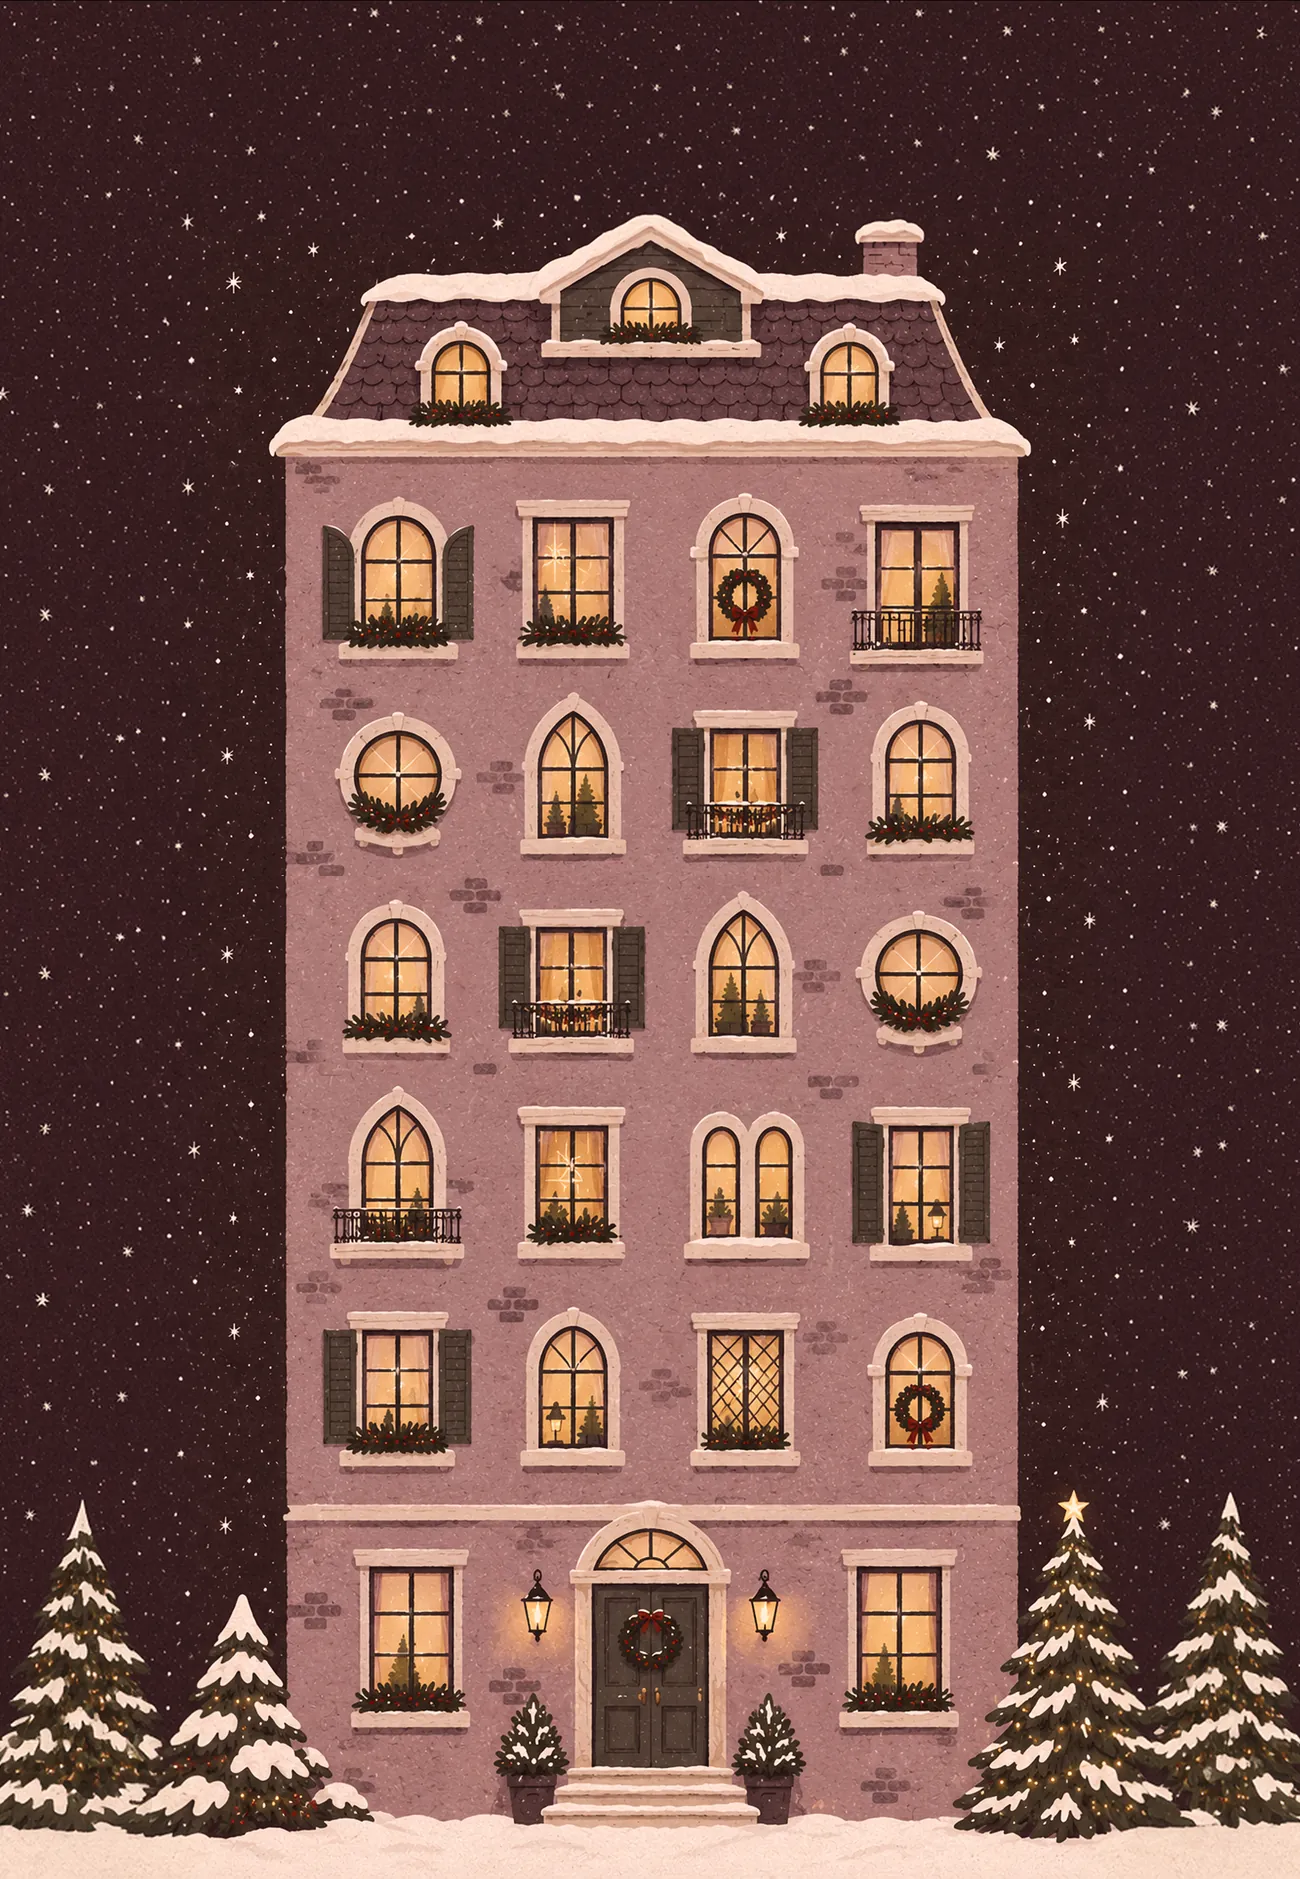
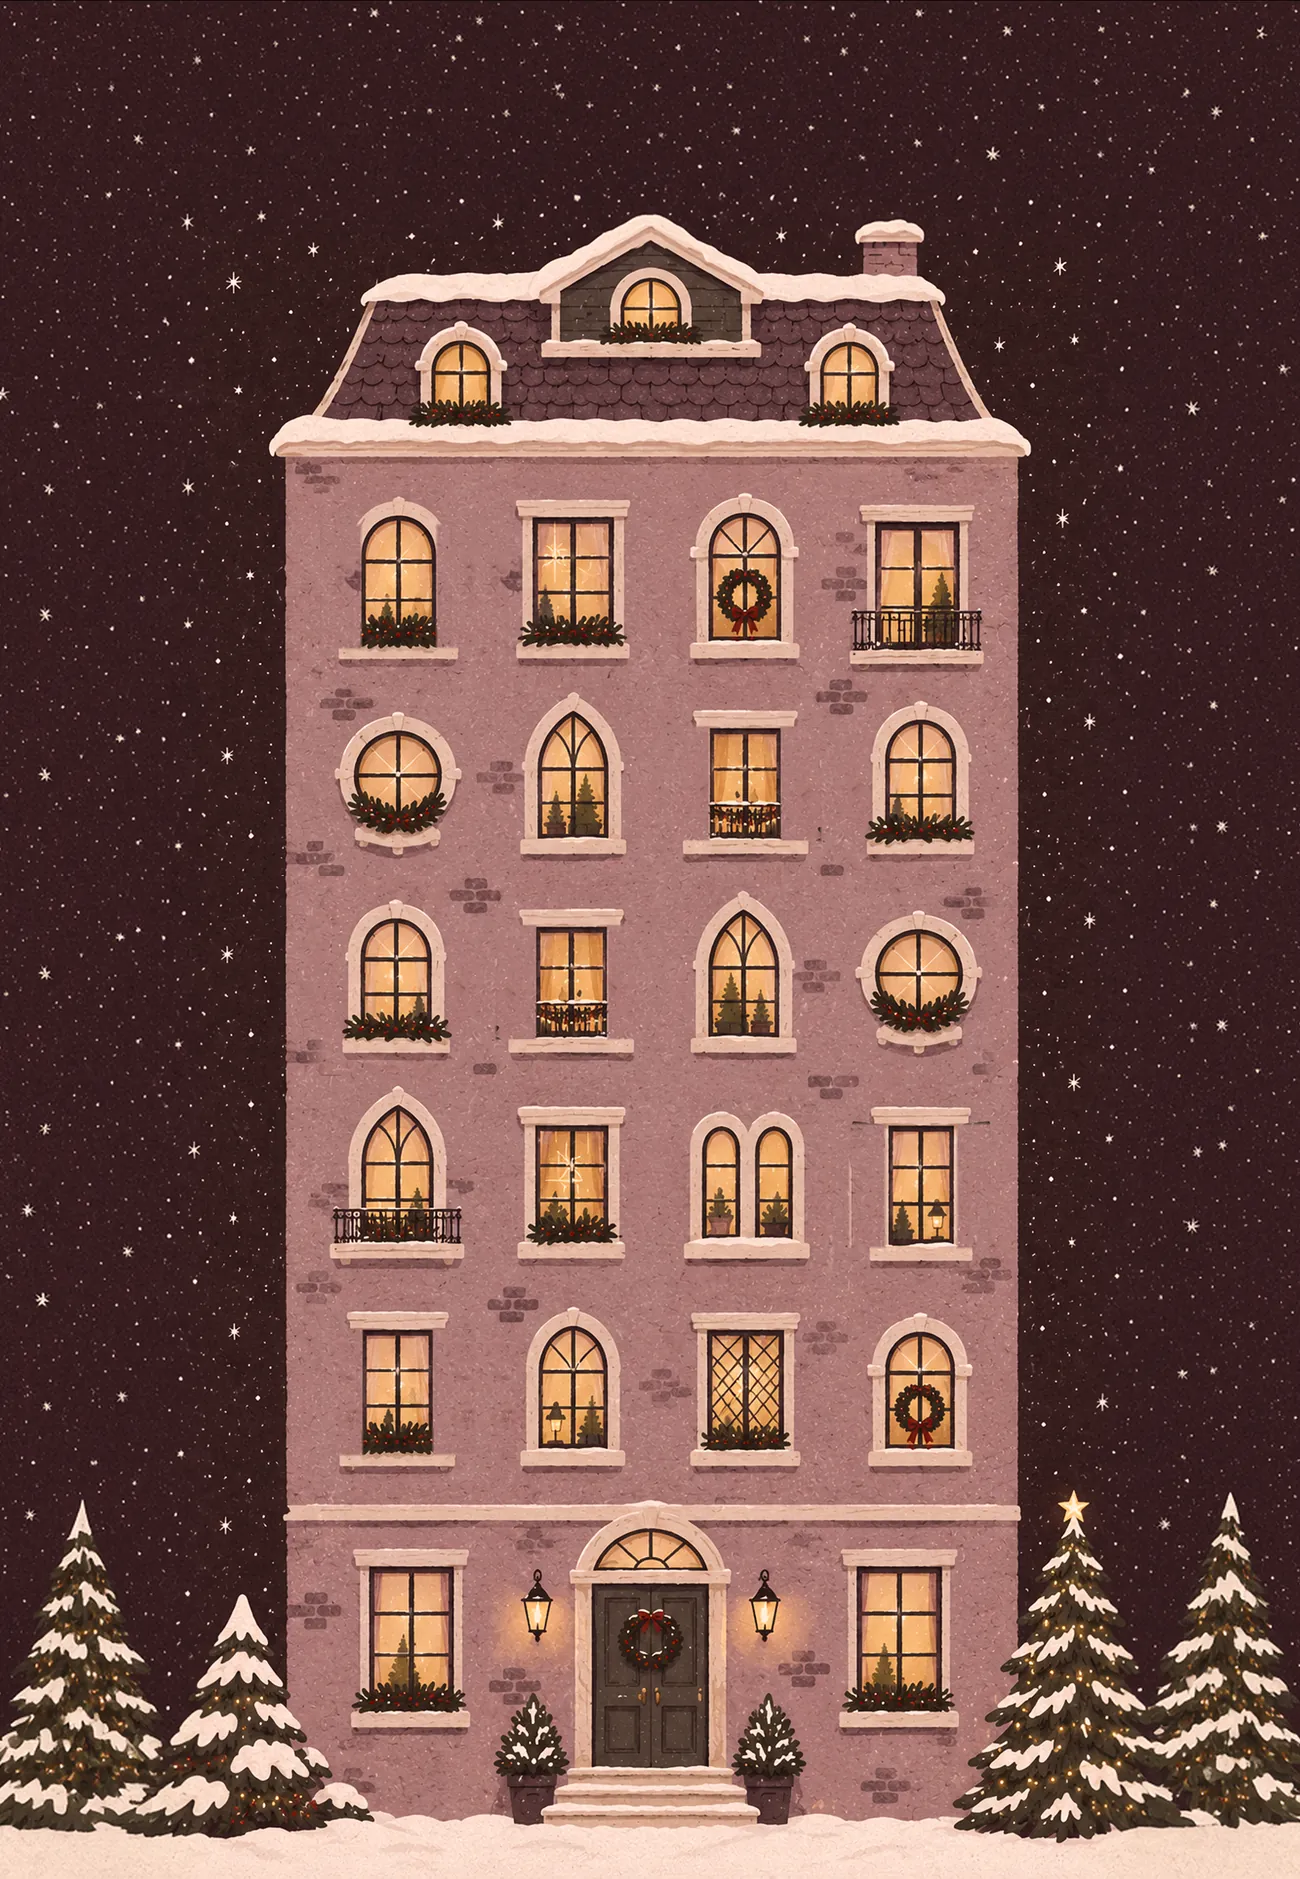
Advent: shutters open outward; remove painted shutters from the artwork
- Painted shutters removed on cells 3, 9, 18, 19 (and 12, the mirrored copy
  of 9) by patching in wall texture during the build
- Each shutter leaf carries its own half of the glass mask, so it keeps its
  shape while swinging outward and lies flat on the wall when open

diff --git a/advent/css/advent.css b/advent/css/advent.css
@@ -135,7 +135,7 @@ html.is-modal-open body { overflow: hidden; }
 /* Небо сторінки — того ж сливового кольору, що й на малюнку */
 body.advent-page {
   /* небо з ілюстрації (безшовна текстура), у тому ж масштабі, що й будинок */
-  background: #361d1e url("../img/sky.webp?v=2026112803") repeat 50% 0 / min(61.1vw, 428px);
+  background: #361d1e url("../img/sky.webp?v=2026112804") repeat 50% 0 / min(61.1vw, 428px);
 }
 .advent-page .aurora { display: none; }
 
@@ -199,7 +199,7 @@ body.advent-page {
 /* Світло у вікні — шматок «світлої» версії малюнка точно по склу */
 .win-light {
   position: absolute;
-  background-image: url("../img/house-lit.webp?v=2026112803");
+  background-image: url("../img/house-lit.webp?v=2026112804");
   background-repeat: no-repeat;
   opacity: 0;
   transition: opacity 0.9s ease, filter 0.6s;
@@ -215,14 +215,10 @@ body.advent-page {
   50%      { filter: brightness(1.22); box-shadow: 0 0 30px 8px rgba(255, 214, 140, 0.8); }
 }
 
-/* Віконниці: зачинені → прочинені (комірка доступна) → розчинені (переглянута) */
+/* Віконниці: зачинені → прочинені назовні (комірка доступна) → розчинені й лежать на стіні (переглянута) */
 .win-shutters {
   position: absolute;
-  perspective: 90px;
-  -webkit-mask-image: url("../img/glass-mask.webp?v=2026112803");
-  mask-image: url("../img/glass-mask.webp?v=2026112803");
-  -webkit-mask-repeat: no-repeat;
-  mask-repeat: no-repeat;
+  perspective: 110px;
   pointer-events: none;
 }
 .leaf {
@@ -235,8 +231,11 @@ body.advent-page {
     repeating-linear-gradient(180deg, rgba(14, 24, 18, 0.55) 0 1.5px, rgba(255, 255, 255, 0.08) 1.5px 2.5px, transparent 2.5px 5px),
     linear-gradient(180deg, #4b6552, #34483a);
   box-shadow: inset 0 0 0 1.5px #1f2c23;
-  transition: transform 1s cubic-bezier(0.2, 0.75, 0.25, 1), filter 1s;
-  backface-visibility: hidden;
+  -webkit-mask-image: url("../img/glass-mask.webp?v=2026112804");
+  mask-image: url("../img/glass-mask.webp?v=2026112804");
+  -webkit-mask-repeat: no-repeat;
+  mask-repeat: no-repeat;
+  transition: transform 1.1s cubic-bezier(0.2, 0.75, 0.25, 1), filter 1.1s;
 }
 .leaf--l { left: 0; transform-origin: 0 50%; }
 .leaf--r { right: 0; transform-origin: 100% 50%; }
@@ -254,20 +253,20 @@ body.advent-page {
 .leaf--l::after { right: 3px; }
 .leaf--r::after { left: 3px; }
 
-.win.is-ready .leaf--l { transform: rotateY(52deg); }
-.win.is-ready .leaf--r { transform: rotateY(-52deg); }
+.win.is-ready .leaf--l { transform: rotateY(-48deg); }
+.win.is-ready .leaf--r { transform: rotateY(48deg); }
 .win.is-new .leaf--l { animation: ajar-l 2.6s ease-in-out infinite; }
 .win.is-new .leaf--r { animation: ajar-r 2.6s ease-in-out infinite; }
-@keyframes ajar-l { 0%, 100% { transform: rotateY(44deg); } 50% { transform: rotateY(60deg); } }
-@keyframes ajar-r { 0%, 100% { transform: rotateY(-44deg); } 50% { transform: rotateY(-60deg); } }
+@keyframes ajar-l { 0%, 100% { transform: rotateY(-40deg); } 50% { transform: rotateY(-58deg); } }
+@keyframes ajar-r { 0%, 100% { transform: rotateY(40deg); } 50% { transform: rotateY(58deg); } }
 
-.win.is-opened .leaf { filter: brightness(0.8); }
-.win.is-opened .leaf--l { transform: rotateY(84deg); }
-.win.is-opened .leaf--r { transform: rotateY(-84deg); }
+.win.is-opened .leaf { filter: brightness(0.72); }
+.win.is-opened .leaf--l { transform: rotateY(-172deg); }
+.win.is-opened .leaf--r { transform: rotateY(172deg); }
 
 @media (hover: hover) {
-  .win.is-ready:hover .leaf--l { animation: none; transform: rotateY(64deg); }
-  .win.is-ready:hover .leaf--r { animation: none; transform: rotateY(-64deg); }
+  .win.is-ready:hover .leaf--l { animation: none; transform: rotateY(-66deg); }
+  .win.is-ready:hover .leaf--r { animation: none; transform: rotateY(66deg); }
 }
 
 /* Номер над вікном */
@@ -653,8 +652,8 @@ body.advent-page {
 
 @media (prefers-reduced-motion: reduce) {
   .win.is-new .win-light { filter: brightness(1.15); box-shadow: 0 0 26px 6px rgba(255, 214, 140, 0.75); }
-  .win.is-new .leaf--l { animation: none; transform: rotateY(54deg); }
-  .win.is-new .leaf--r { animation: none; transform: rotateY(-54deg); }
+  .win.is-new .leaf--l { animation: none; transform: rotateY(-50deg); }
+  .win.is-new .leaf--r { animation: none; transform: rotateY(50deg); }
   .door-tag { animation: none; }
   .spoiler:not(.is-revealed) { animation: none; }
 }

diff --git a/advent/index.html b/advent/index.html
@@ -22,9 +22,9 @@
   <link href="https://fonts.googleapis.com/css2?family=Manrope:wght@400;500;600;700;800&family=Roboto+Slab:wght@600;700;800&display=swap" rel="stylesheet">
 
   <!-- ?v=… — версія файлів: змінюй при кожному оновленні CSS/JS -->
-  <link rel="stylesheet" href="../css/style.css?v=2026112803">
-  <link rel="stylesheet" href="css/advent.css?v=2026112803">
-  <link rel="preload" href="img/house-lit.webp?v=2026112803" as="image" type="image/webp">
+  <link rel="stylesheet" href="../css/style.css?v=2026112804">
+  <link rel="stylesheet" href="css/advent.css?v=2026112804">
+  <link rel="preload" href="img/house-lit.webp?v=2026112804" as="image" type="image/webp">
 </head>
 <body class="advent-page">
   <div class="aurora" aria-hidden="true"></div>
@@ -47,7 +47,7 @@
     <!-- Будинок: кожне вікно — комірка. Ілюстрацію збирає tools/build_house.py -->
     <section class="house" aria-label="Комірки адвент-календаря">
       <div class="house-art">
-        <img class="house-img" src="img/house-dark.webp?v=2026112803" width="1300" height="1879" alt="" decoding="async" fetchpriority="high">
+        <img class="house-img" src="img/house-dark.webp?v=2026112804" width="1300" height="1879" alt="" decoding="async" fetchpriority="high">
         <ol class="windows" id="windows"></ol>
         <a class="door" href="../" style="left:45.62%;top:81.22%;width:8.85%;height:11.79%">
           <span class="door-tag">Передбачення 2027 ✨</span>
@@ -88,8 +88,8 @@
 
   <div class="toast" id="toast" role="status" aria-live="polite"></div>
 
-  <script src="../js/effects.js?v=2026112803" defer></script>
-  <script src="js/richtext.js?v=2026112803" defer></script>
-  <script src="js/advent.js?v=2026112803" defer></script>
+  <script src="../js/effects.js?v=2026112804" defer></script>
+  <script src="js/richtext.js?v=2026112804" defer></script>
+  <script src="js/advent.js?v=2026112804" defer></script>
 </body>
 </html>

diff --git a/advent/js/advent.js b/advent/js/advent.js
@@ -207,18 +207,27 @@
       light.style.backgroundPosition = (gx / (100 - gw) * 100) + '% ' + (gy / (100 - gh) * 100) + '%';
       b.appendChild(light);
 
-      // Віконниці: обрізані маскою точно по формі скла (арка, коло…)
+      // Віконниці: кожна стулка обрізана маскою по своїй половині скла (арка, коло…)
+      // і повертається разом зі своєю формою — тому відчинена лягає на стіну поруч
       var shut = document.createElement('span');
       shut.className = 'win-shutters';
       shut.style.left = light.style.left;
       shut.style.top = light.style.top;
       shut.style.width = light.style.width;
       shut.style.height = light.style.height;
-      shut.style.setProperty('-webkit-mask-size', light.style.backgroundSize);
-      shut.style.setProperty('mask-size', light.style.backgroundSize);
-      shut.style.setProperty('-webkit-mask-position', light.style.backgroundPosition);
-      shut.style.setProperty('mask-position', light.style.backgroundPosition);
-      shut.innerHTML = '<span class="leaf leaf--l"></span><span class="leaf leaf--r"></span>';
+      var lw = gw / 2;
+      var maskSize = (100 / lw * 100) + '% ' + (100 / gh * 100) + '%';
+      var maskY = (gy / (100 - gh) * 100) + '%';
+      [['l', gx], ['r', gx + lw]].forEach(function (side) {
+        var leaf = document.createElement('span');
+        leaf.className = 'leaf leaf--' + side[0];
+        var pos = (side[1] / (100 - lw) * 100) + '% ' + maskY;
+        leaf.style.setProperty('-webkit-mask-size', maskSize);
+        leaf.style.setProperty('mask-size', maskSize);
+        leaf.style.setProperty('-webkit-mask-position', pos);
+        leaf.style.setProperty('mask-position', pos);
+        shut.appendChild(leaf);
+      });
       b.appendChild(shut);
 
       var num = document.createElement('span');

diff --git a/tools/build_house.py b/tools/build_house.py
@@ -29,6 +29,66 @@ BAND = (1125, 1455)       # поверх, який дублюємо (y від–
 MIRROR_AXIS = 1097        # вісь симетрії фасаду в оригіналі, px
 CROP_X = (4, 2163)        # уся ширина (ялинки цілі), без крайніх пікселів із прозорістю
 EDGE_KEEP = (515, 1660)   # смужки біля стін фасаду беремо з оригіналу (x до/після)
+# Скло вікон (в оригіналі, x0 y0 x1 y1), з боків яких прибираємо намальовані віконниці —
+# там тепер відчиняються анімовані. 2-й поверх дублюється дзеркально, тож прибирається й у копії.
+REMOVE_SHUTTERS = [
+    (612, 866, 721, 1034),    # 1-й поверх, ліве вікно
+    (1190, 1220, 1293, 1382), # 2-й поверх, 3-тє вікно (і його дзеркальна копія)
+    (1487, 1550, 1581, 1728), # 3-й поверх, праве вікно
+    (614, 1890, 715, 2057),   # 4-й поверх, ліве вікно
+]
+
+
+def wall_like(px):
+    r, g, b = px[..., 0].astype(int), px[..., 1].astype(int), px[..., 2].astype(int)
+    return (r > 120) & (r < 215) & (r - g > 18) & (r - g < 75) & (b > g - 25)
+
+
+def remove_shutters(a):
+    """Замальовує намальовані віконниці фактурою стіни з найчистішої сусідньої ділянки."""
+    H, W = a.shape[:2]
+    for gx0, gy0, gx1, gy1 in REMOVE_SHUTTERS:
+        for zx0, zx1 in ((gx0 - 95, gx0 - 6), (gx1 + 6, gx1 + 95)):
+            zy0, zy1 = gy0 - 15, gy1 + 45
+            zone = a[zy0:zy1, zx0:zx1, :3].astype(int)
+            lum = zone.mean(axis=2)
+            dark = lum < 105
+            if dark.sum() < 500:
+                continue
+            # рамка самої віконниці (найбільша темна пляма в зоні)
+            lab, n = ndimage.label(ndimage.binary_closing(dark, iterations=3))
+            big = np.argmax(ndimage.sum(dark, lab, range(1, n + 1))) + 1
+            sy, sx = ndimage.find_objects(lab)[big - 1]
+            y0, y1 = zy0 + sy.start - 4, zy0 + sy.stop + 4
+            x0, x1 = zx0 + sx.start - 4, zx0 + sx.stop + 4
+            region = a[y0:y1, x0:x1, :3].astype(int)
+            r, g, b = region[..., 0], region[..., 1], region[..., 2]
+            # гірлянда (зелене гілля, червоні ягоди) лишається поверх стіни
+            garland = (g - r > 6) | ((r > 120) & (g < 70) & (b < 80))
+            garland = ndimage.binary_dilation(ndimage.binary_opening(garland, iterations=2), iterations=2)
+            mask = ~garland
+            # шукаємо поруч ділянку тих самих розмірів, де лише стіна
+            h, w = y1 - y0, x1 - x0
+            best = None
+            for dy in range(-140, 141, 10):
+                for dx in range(-300, 301, 6):
+                    sy0, sx0 = y0 + dy, x0 + dx
+                    if sy0 < 0 or sx0 < 0 or sy0 + h > H or sx0 + w > W or (abs(dx) < w + 10 and abs(dy) < h):
+                        continue
+                    score = wall_like(a[sy0:sy0 + h, sx0:sx0 + w, :3]).mean() - abs(dx) / 6000 - abs(dy) / 3000
+                    if best is None or score > best[0]:
+                        best = (score, sy0, sx0)
+            _, sy0, sx0 = best
+            src = a[sy0:sy0 + h, sx0:sx0 + w, :3].astype(np.float32)
+            # м'які краї, щоб не було видно латки
+            soft = ndimage.gaussian_filter(mask.astype(np.float32), 2.0)
+            f = 5
+            ramp = np.minimum(np.arange(h)[:, None], np.arange(h)[::-1][:, None]).clip(0, f) / f
+            ramp = np.minimum(ramp, (np.minimum(np.arange(w), np.arange(w)[::-1]).clip(0, f) / f)[None, :])
+            alpha = (soft * np.maximum(ramp, 0.0))[..., None]
+            dst = a[y0:y1, x0:x1, :3].astype(np.float32)
+            a[y0:y1, x0:x1, :3] = (src * alpha + dst * (1 - alpha)).astype(np.uint8)
+    return a
 
 
 def add_floor(a):
@@ -134,6 +194,7 @@ def darken(a, box, pad=6):
 def main():
     src = sys.argv[1] if len(sys.argv) > 1 else 'img.png'
     a = np.array(Image.open(src).convert('RGBA'))
+    a = remove_shutters(a)
     a = add_floor(a)
     a = a[:, CROP_X[0]:CROP_X[1]].copy()
     a[..., 3] = 255
